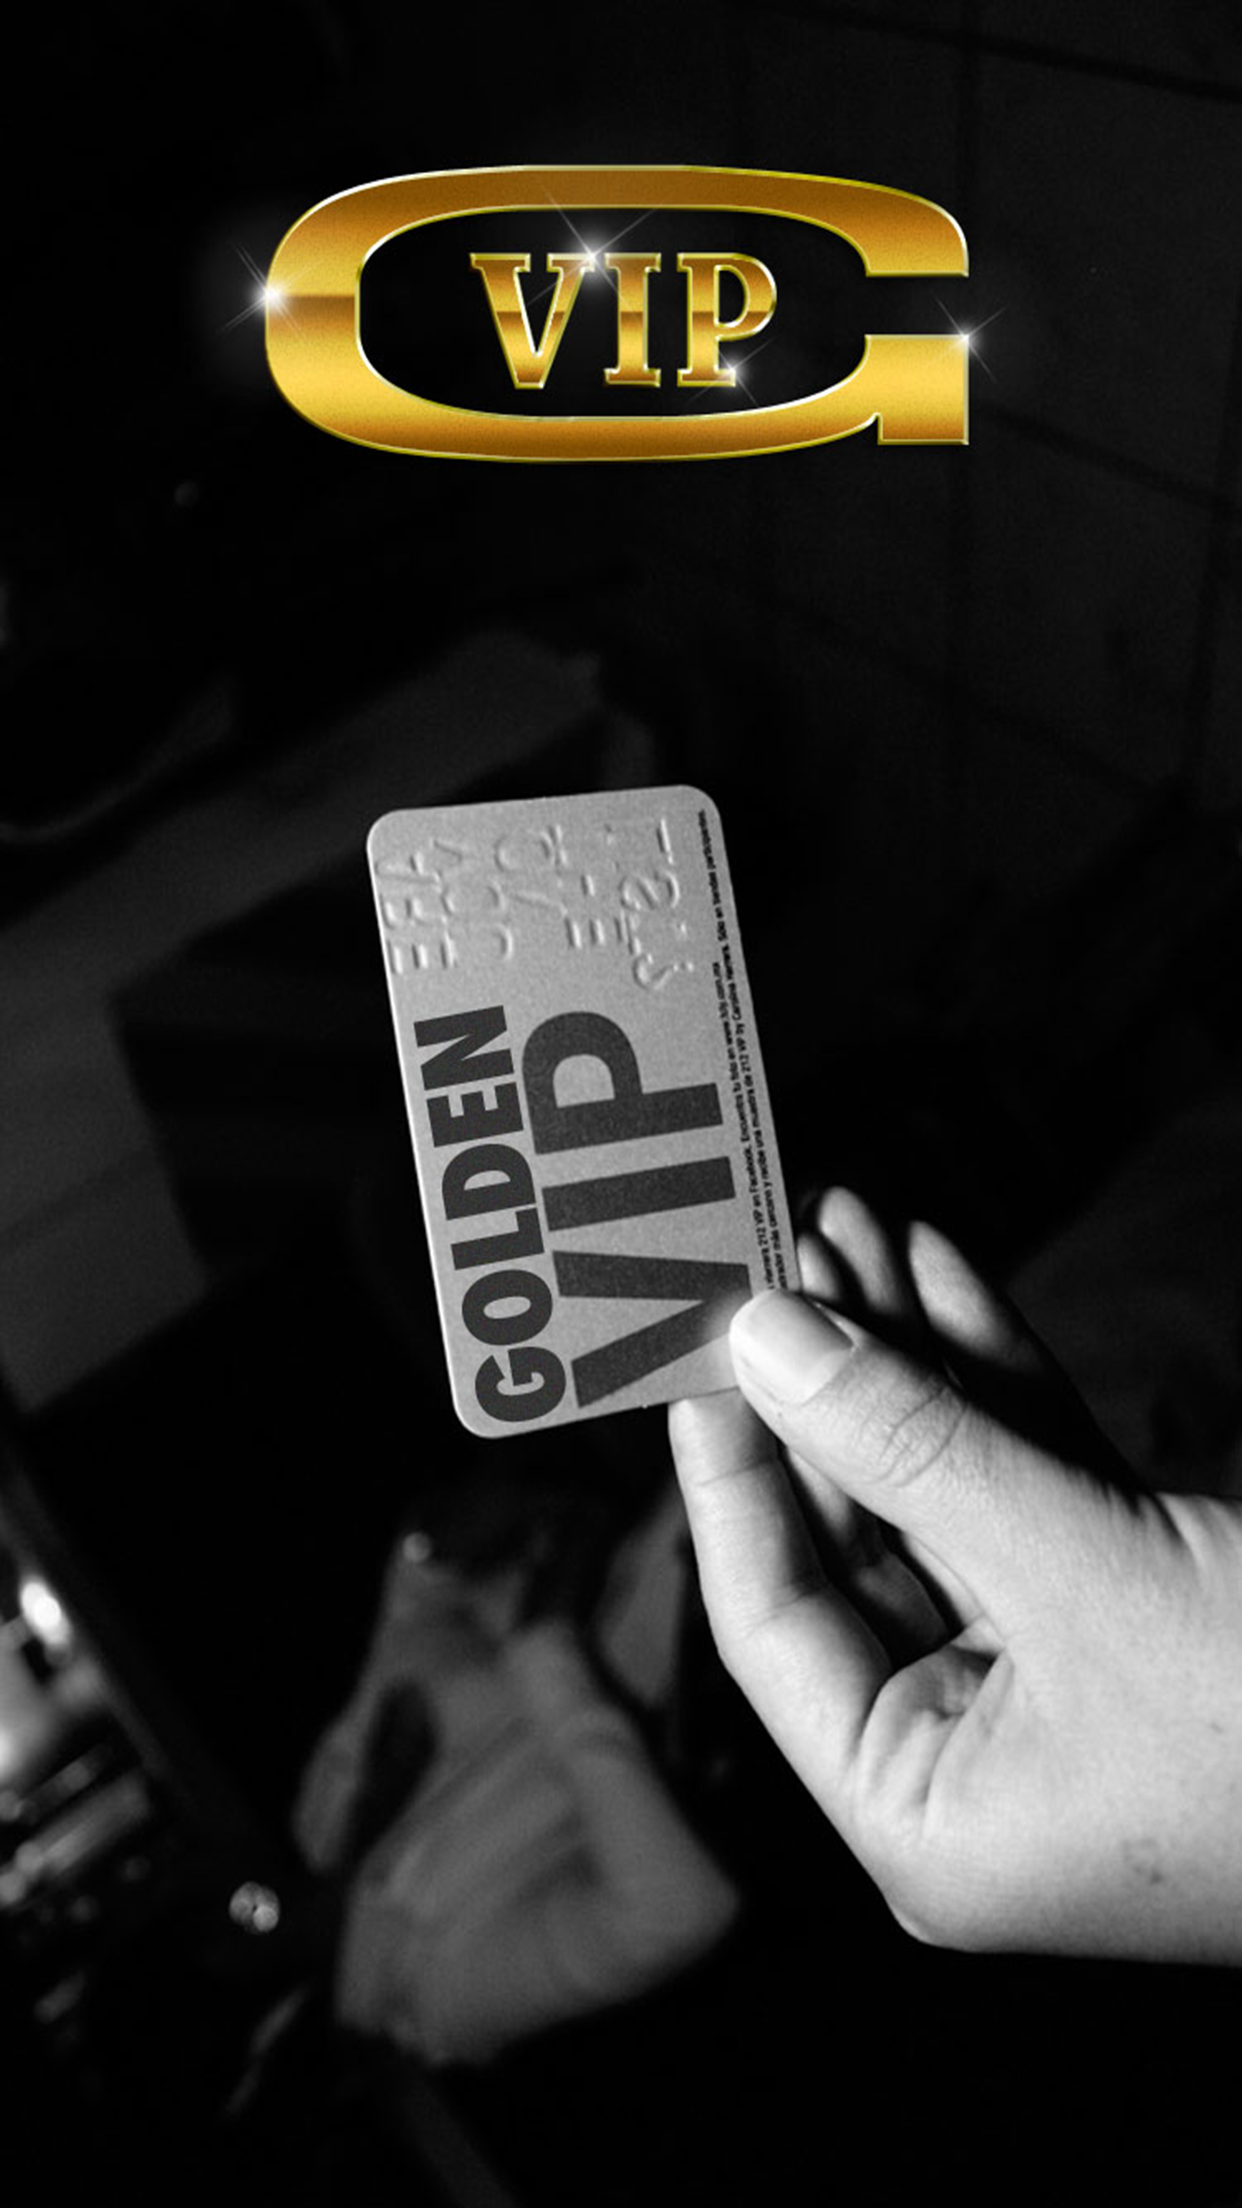
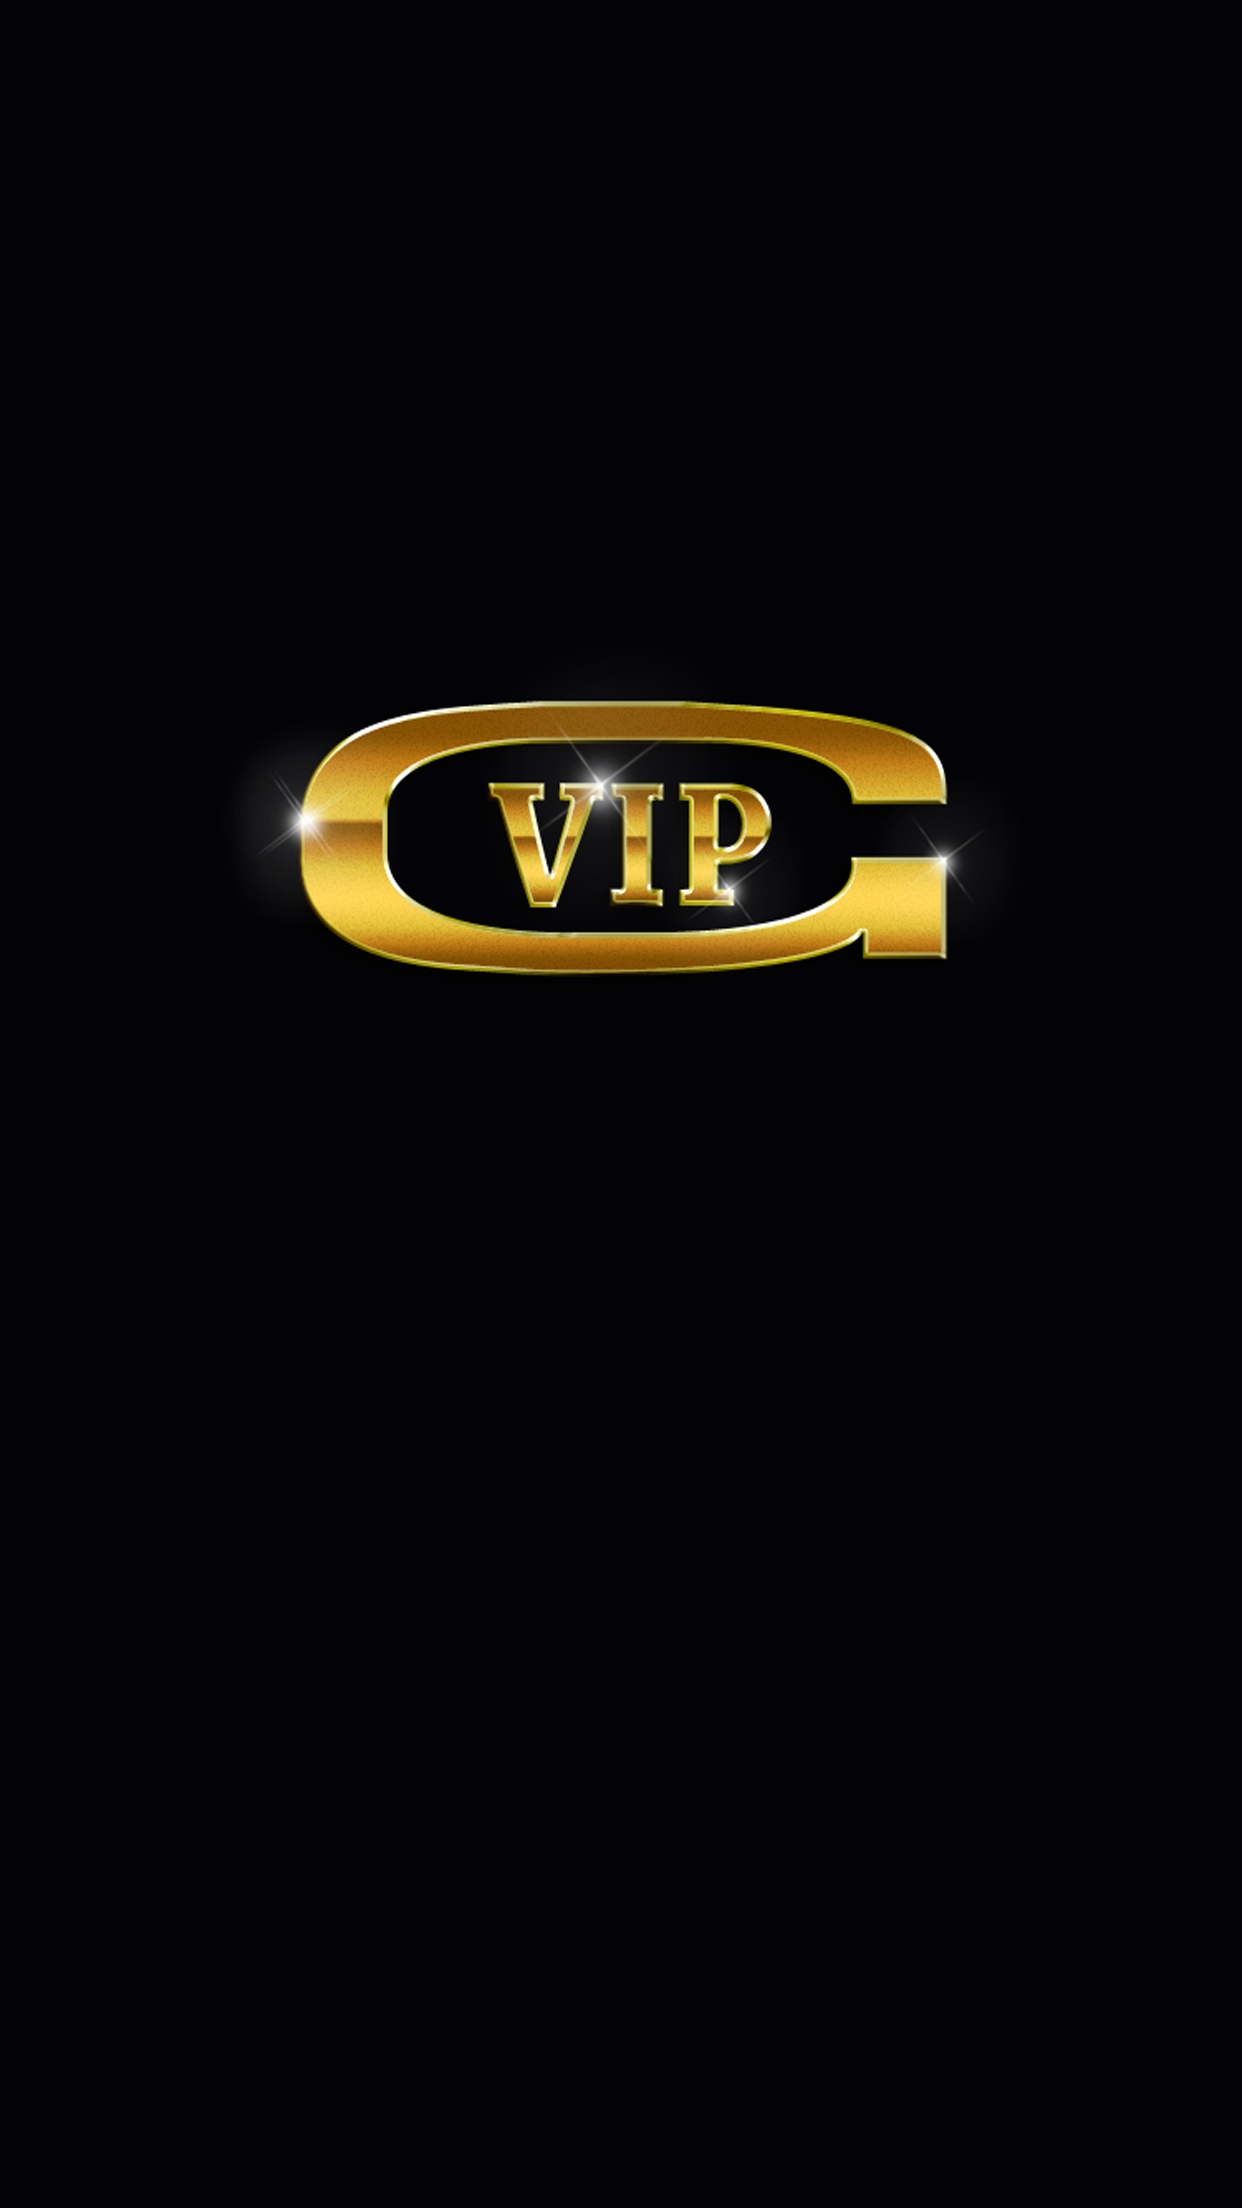
Updates

diff --git a/js/templates.js b/js/templates.js
@@ -41,7 +41,7 @@ var templates = {
 
     life_list: '' +
     '<ons-list-item class="guest_list_item">'+
-        '<div class="item-bg list">'+
+        '<div class="item-bg list life">'+
             '<img onload="fadeIn(this)" onerror="onfailImage(this)" src="%first_image%" />'+
         '</div>'+
         '<div class="guesto-list-verlay overlay">'+
@@ -57,7 +57,7 @@ var templates = {
 
     promo_list: '' +
         '<ons-list-item class="guest_list_item">'+
-            '<div class="item-bg list">'+
+            '<div class="item-bg list promo">'+
                 '<img onload="fadeIn(this)" onerror="onfailImage(this)" src="%first_image%" />'+
             '</div>'+
             '<div class="guesto-list-verlay overlay">'+

diff --git a/styles/app.css b/styles/app.css
@@ -17,7 +17,7 @@ body {
 .splash .page__background {
     background-size:100% auto;
     background-color: #000;
-    background-image: url('../img/splash.jpg');
+    background-image: url('../splash.png');
     background-repeat:no-repeat;
     background-position: 0 0;
     background-size: 100% auto;
@@ -177,6 +177,12 @@ input[type=checkbox] {
     background-color: #fff;
     background-position: center center;
     background-repeat: no-repeat;
+}
+
+.item-bg.life, .item-bg.promo {
+    background-image: url('../img/offline_life_promo.jpg');
+    background-size: 100% auto;
+    background-position: center center;
 }
 
 .guestpage .guest_list_item .item-bg {

diff --git a/lib/iscroll/iscroll.js b/lib/iscroll/iscroll.js
@@ -32,7 +32,7 @@ function iScroll (el, options) {
 		vScrollbar: has3d,
 		fadeScrollbar: isIthing || !isTouch,
 		shrinkScrollbar: isIthing || !isTouch,
-		desktopCompatibility: false,
+		desktopCompatibility: true,
 		overflow: 'auto',
 		snap: false,
 		bounceLock: false,
